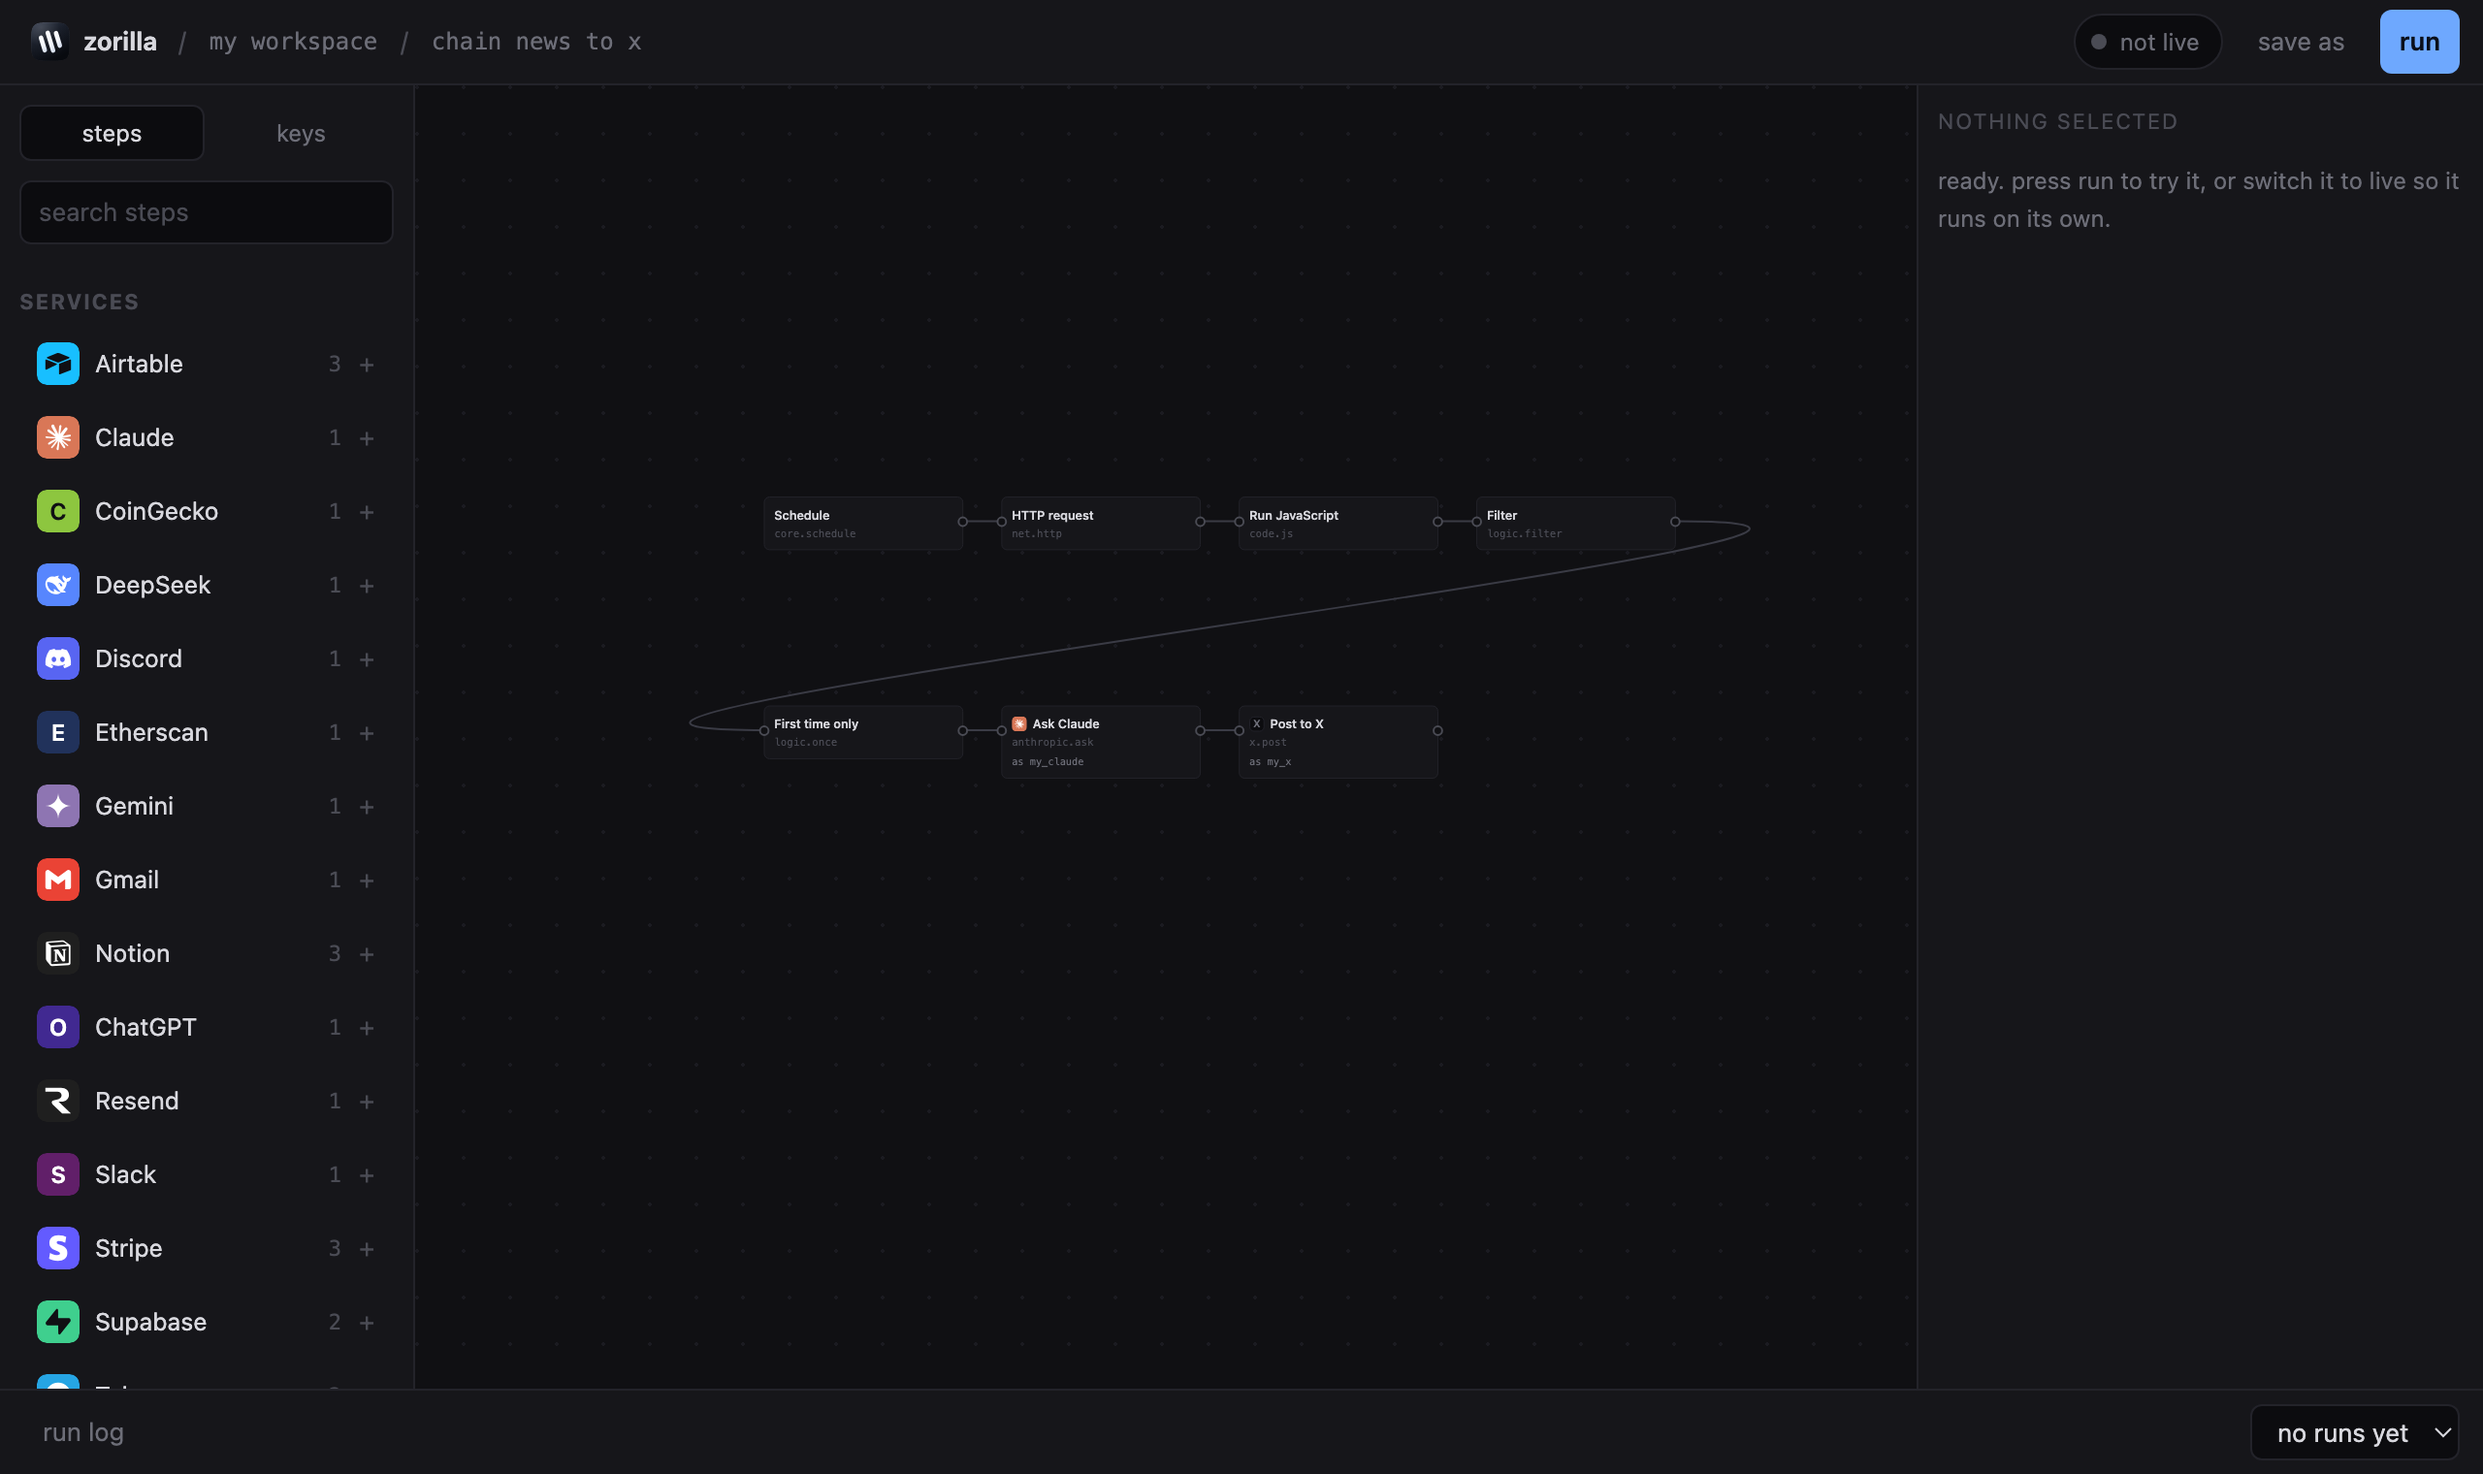
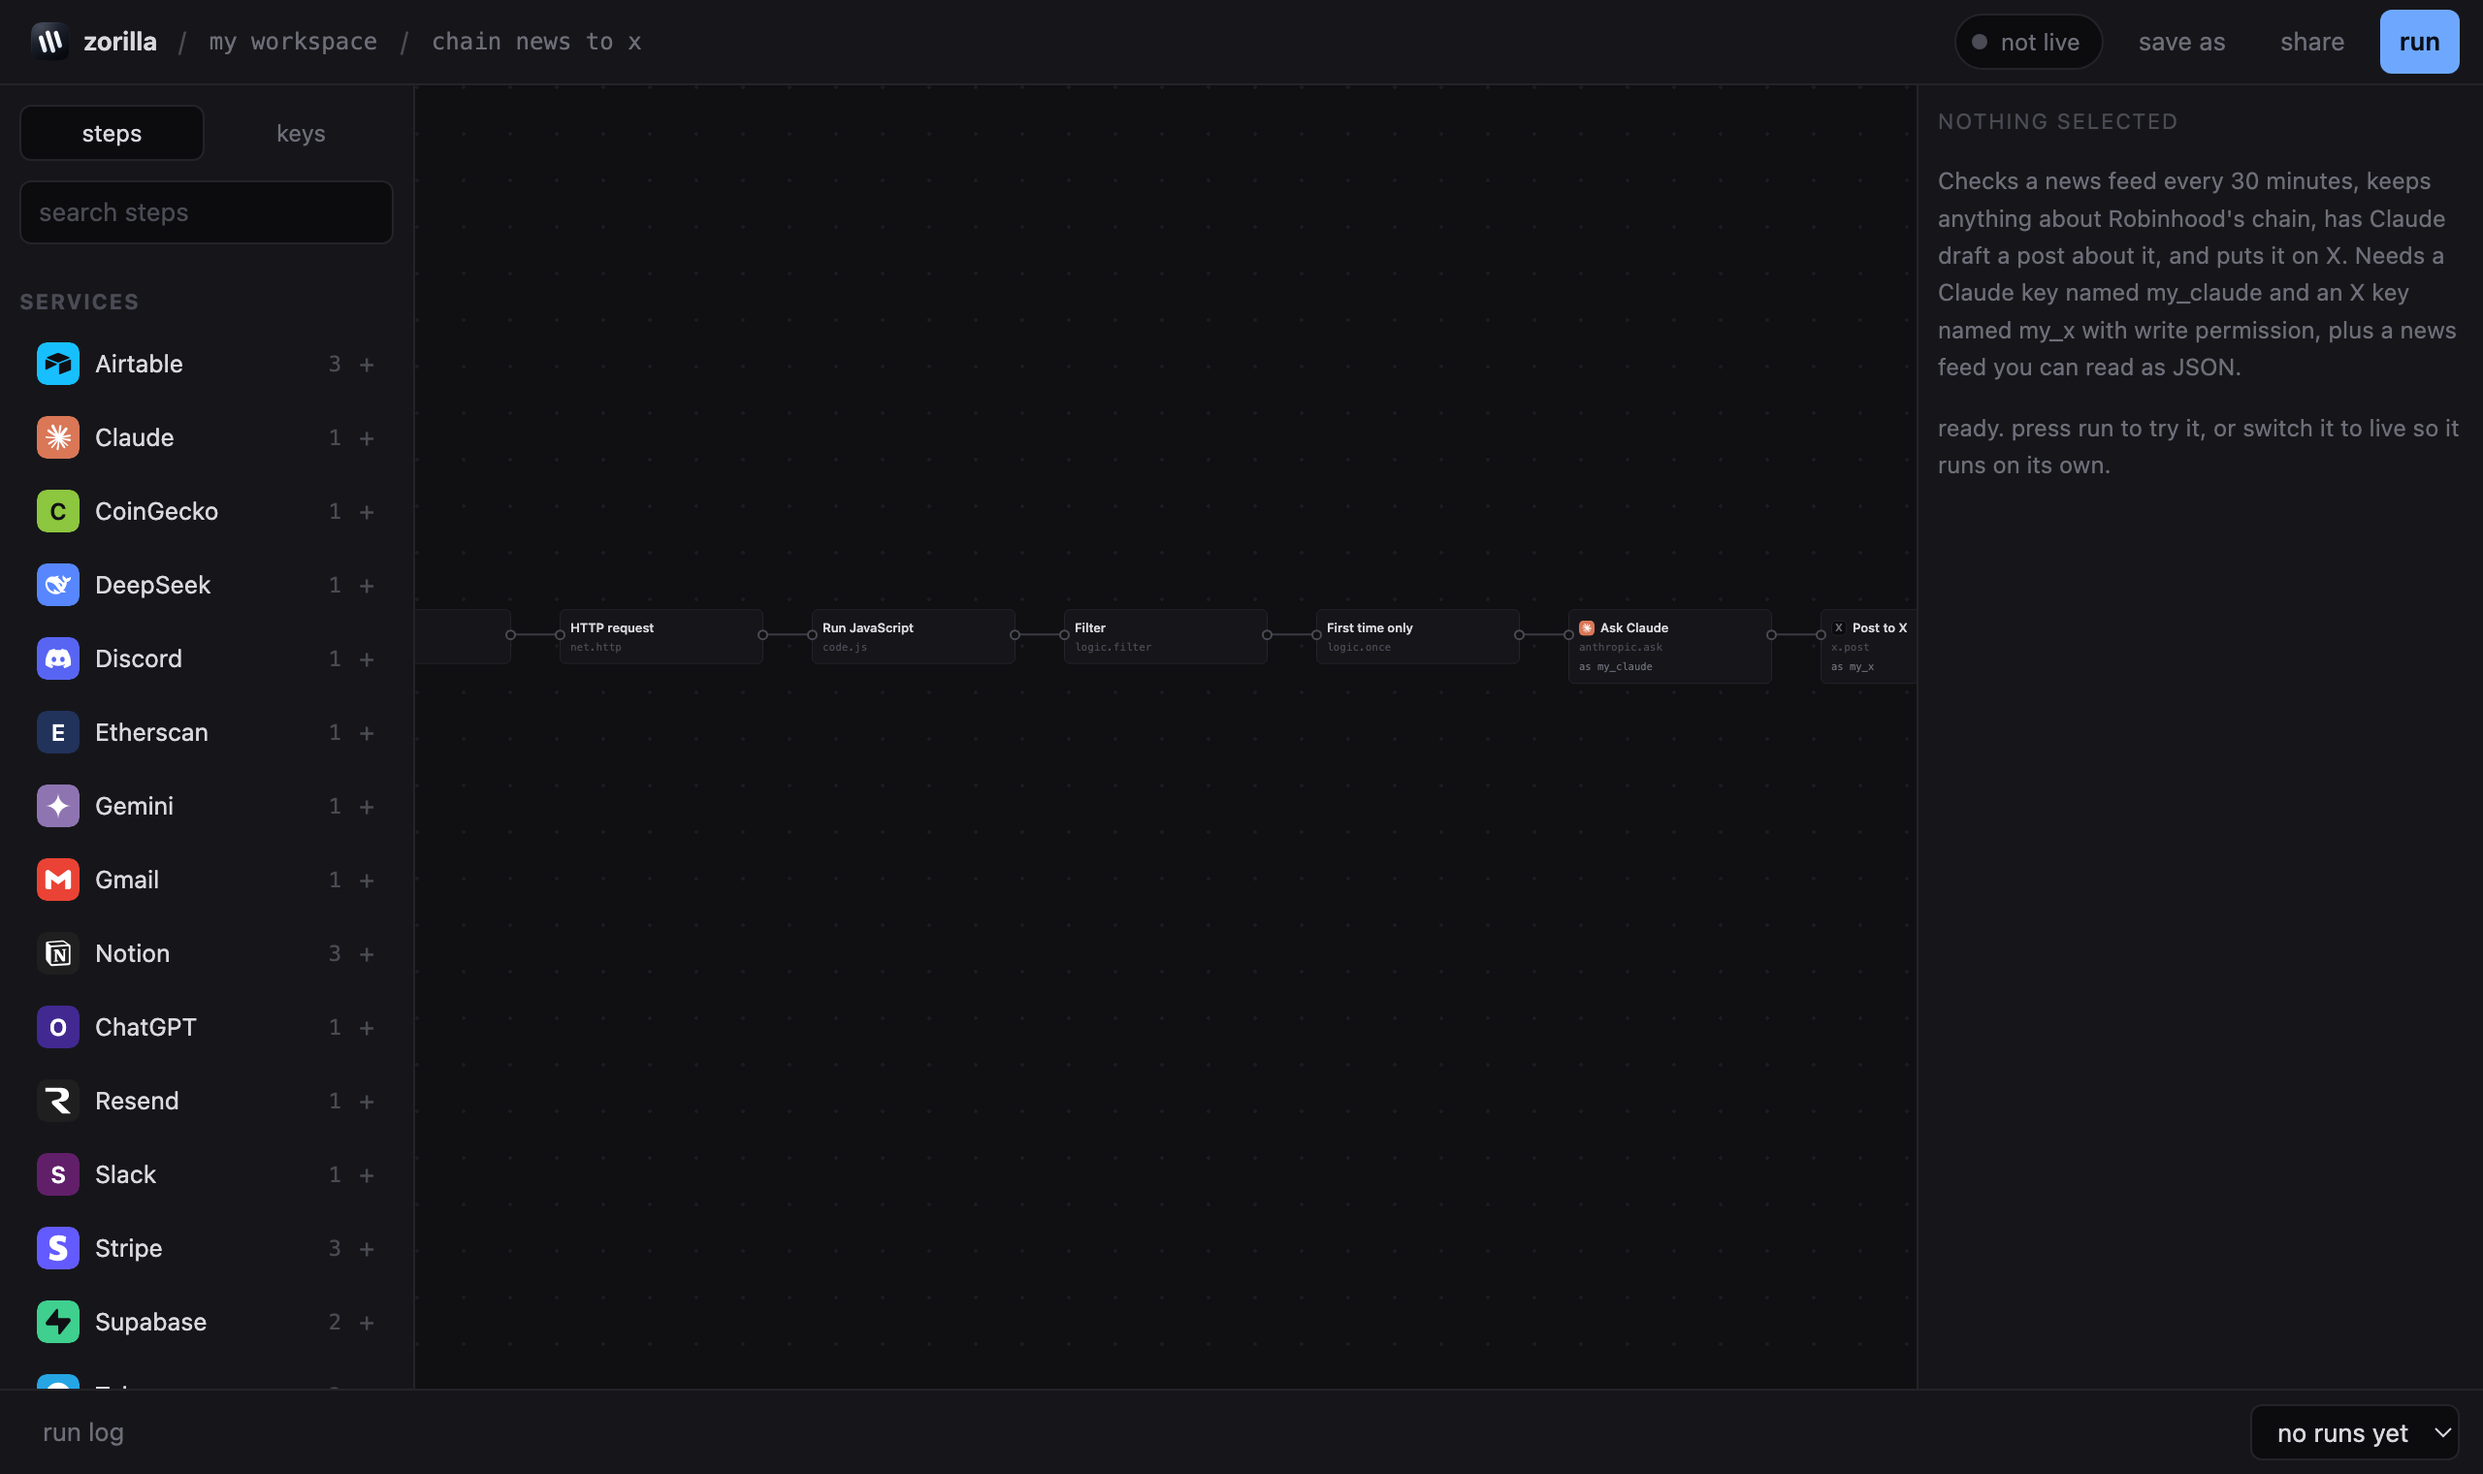
the picture matches the layout the app uses

diff --git a/app/page.js b/app/page.js
@@ -111,7 +111,8 @@ export default async function Home() {
             <p>
               Services on the left, one row each. Drop a step on the canvas, drag a wire to the
               next one, and each step tells you what it still needs before it can run. This one
-              checks a news feed, filters it, has Claude write a post and puts it on X.
+              checks a news feed every half hour, keeps the headlines worth posting about, has
+              Claude write the post, and puts it on X.
             </p>
           </div>
           <Shot src="/guide/hero-x.png" alt="the zorilla editor building a news to X automation" tilt />
